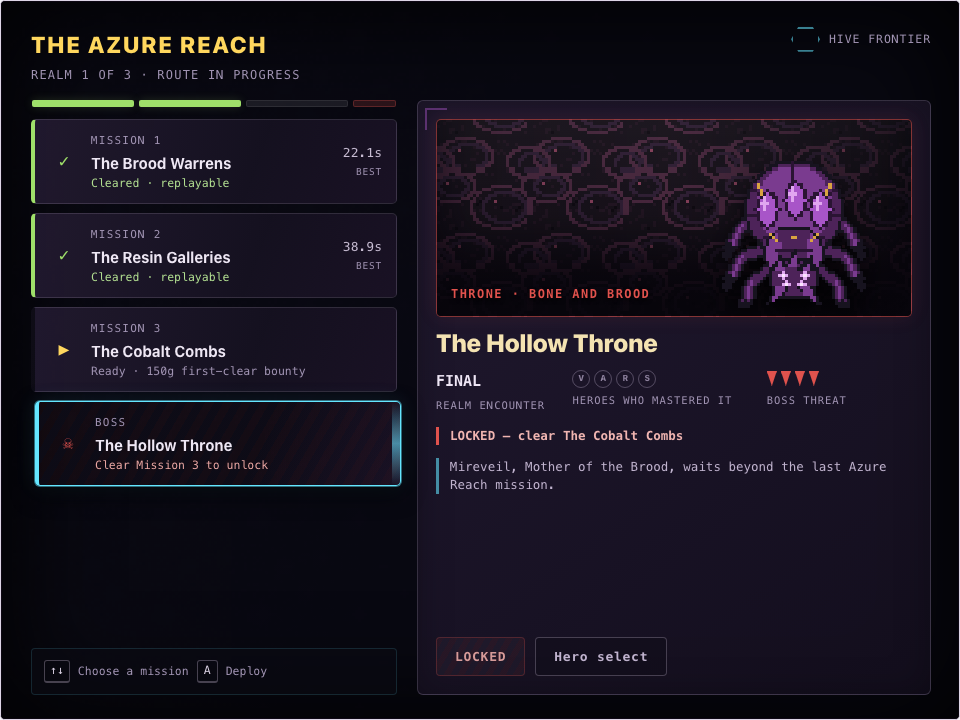
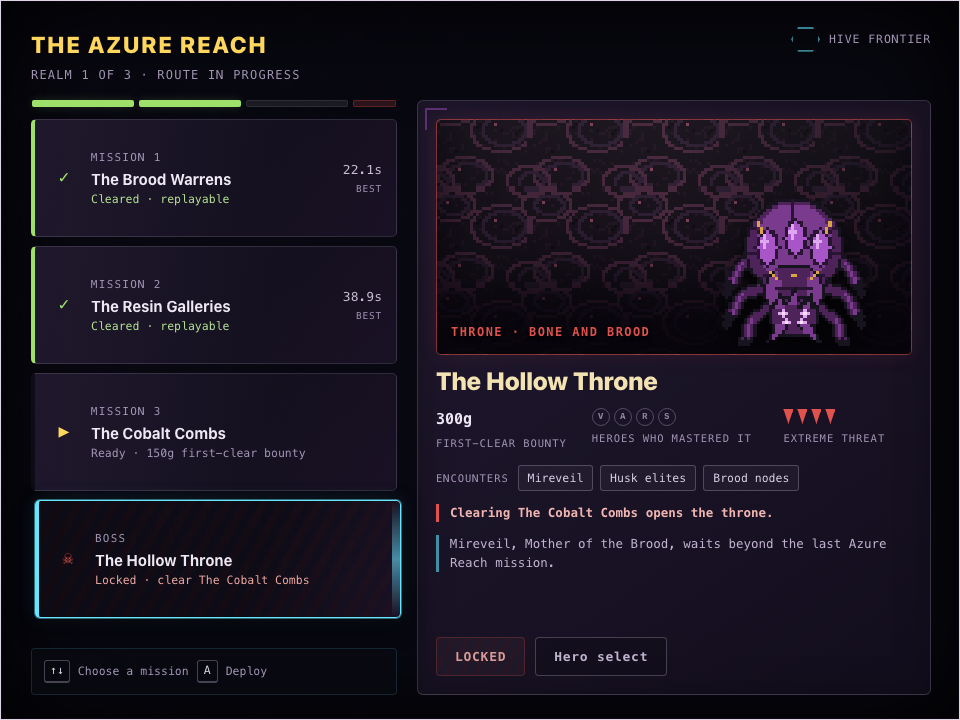
Fix input parity in the menu redesign prototype
The prototype existed to demonstrate one cursor driven by pointer, keyboard
and pad, and two paths broke exactly that.

Buying anything rebuilt the shop and fork markup, destroying the button that
held DOM focus. Key input is bound to the stage, so focus falling back to
<body> meant arrows and Enter stopped reaching it — keyboard and pad control
died for the rest of the session on the first purchase. Confirming a
specialization did the same, hiding the dialog while focus sat inside it.
Re-renders that follow a state change now hand the cursor back.

The confirmation was modal for the keyboard but not for the pad: A reached
the card underneath the dialog and nothing reached the dialog's own buttons.
The pad now sees the same modal the keyboard does, with the safe option
holding focus.

Also, against the acceptance details in #139:

- the number badges are honoured rather than decorative — 1-3 buy upgrades,
  4-5 open a specialization preview, and both move the cursor so the shortcut
  and the cursor never disagree
- the boss node stated "locked" five ways; the card now spends that room on
  first-clear bounty, an EXTREME threat rating that keeps the scale a scale,
  and the enemy families #139 asked for
- gold earned read 318 over a 250g bank, which ResultsScene cannot produce —
  it banks the run's gold on entry, before anything is spent
- rows and cards grew to absorb ~100px of dead column, and locked rows lost
[…]

diff --git a/docs/design/mockups/menu-redesign.html b/docs/design/mockups/menu-redesign.html
@@ -73,7 +73,7 @@
   .seg.on { border-color:rgba(159,224,106,.65); background:var(--green); box-shadow:0 0 10px rgba(159,224,106,.18); }
   .seg.boss { flex:0 0 43px; border-color:rgba(224,82,77,.28); background:rgba(224,82,77,.16); }
   .seg.boss.on { background:var(--red); }
-  .row { position:relative; display:grid; grid-template-columns:30px 1fr auto; gap:12px; align-items:center; width:100%; min-height:85px; padding:11px 14px; overflow:hidden; border:1px solid rgba(192,179,206,.18); border-left:4px solid transparent; border-radius:5px; background:linear-gradient(100deg,rgba(34,26,48,.92),rgba(14,12,23,.88)); color:inherit; cursor:pointer; font:inherit; text-align:left; }
+  .row { position:relative; display:grid; grid-template-columns:30px 1fr auto; gap:12px; align-items:center; width:100%; min-height:118px; padding:11px 14px; overflow:hidden; border:1px solid rgba(192,179,206,.18); border-left:4px solid transparent; border-radius:5px; background:linear-gradient(100deg,rgba(34,26,48,.92),rgba(14,12,23,.88)); color:inherit; cursor:pointer; font:inherit; text-align:left; }
   .row::after { content:""; position:absolute; inset:0; pointer-events:none; background:linear-gradient(110deg,transparent 60%,rgba(168,85,200,.08)); }
   .row:hover { border-color:rgba(100,230,255,.44); transform:translateX(2px); }
   .row[aria-current="true"] { z-index:1; border-color:var(--cyan); border-left-color:var(--cyan); box-shadow:0 0 0 1px rgba(100,230,255,.45),0 8px 22px rgba(0,0,0,.6),0 0 20px rgba(100,230,255,.12); transform:translateX(4px); }
@@ -97,13 +97,13 @@
 
   .detail { position:relative; display:flex; min-height:0; flex-direction:column; gap:13px; padding:18px; overflow:hidden; border:1px solid rgba(192,179,206,.2); border-radius:6px; background:linear-gradient(145deg,rgba(34,26,48,.97),rgba(19,14,29,.97)); box-shadow:inset 0 0 35px rgba(0,0,0,.28); }
   .detail::before,.fork::before { content:""; position:absolute; width:22px; height:22px; border-top:2px solid rgba(168,85,200,.45); border-left:2px solid rgba(168,85,200,.45); top:7px; left:7px; pointer-events:none; }
-  .biome { position:relative; height:198px; flex:0 0 198px; overflow:hidden; border:1px solid color-mix(in srgb,var(--line) 55%,transparent); border-radius:5px; background-color:var(--tint); background-image:linear-gradient(90deg,rgba(6,5,10,.2),rgba(6,5,10,.05) 50%,rgba(6,5,10,.55)),var(--texture); background-position:center; background-size:auto,96px 96px; box-shadow:inset 0 -60px 50px rgba(3,2,7,.72),0 0 20px color-mix(in srgb,var(--line) 10%,transparent); image-rendering:pixelated; }
+  .biome { position:relative; height:236px; flex:0 0 236px; overflow:hidden; border:1px solid color-mix(in srgb,var(--line) 55%,transparent); border-radius:5px; background-color:var(--tint); background-image:linear-gradient(90deg,rgba(6,5,10,.2),rgba(6,5,10,.05) 50%,rgba(6,5,10,.55)),var(--texture); background-position:center; background-size:auto,96px 96px; box-shadow:inset 0 -60px 50px rgba(3,2,7,.72),0 0 20px color-mix(in srgb,var(--line) 10%,transparent); image-rendering:pixelated; }
   .biome::after { content:""; position:absolute; inset:0; background:linear-gradient(180deg,rgba(255,255,255,.025),transparent 45%,rgba(7,5,11,.7)); }
   .biome img { position:absolute; z-index:1; right:34px; bottom:21px; width:108px; height:108px; object-fit:contain; filter:drop-shadow(0 14px 12px rgba(0,0,0,.78)); image-rendering:pixelated; transform:scale(1.15); }
   .biome img.boss-art { right:42px; bottom:8px; width:150px; height:150px; transform:none; }
   .biome-label { position:absolute; z-index:2; left:14px; bottom:12px; color:var(--line); font-size:12px; font-weight:700; letter-spacing:.12em; text-shadow:0 2px 4px #000; }
   .dname { color:var(--parch); font-family:var(--sans); font-size:25px; font-weight:850; letter-spacing:-.01em; line-height:1.05; }
-  .meta { display:grid; grid-template-columns:.85fr 1.25fr 1fr; gap:13px; }
+  .meta { display:grid; grid-template-columns:1fr 1.25fr .9fr; gap:13px; }
   .stat { display:flex; min-width:0; flex-direction:column; gap:4px; }
   .stat b { min-height:19px; color:#eee6f5; font-size:15px; font-weight:650; font-variant-numeric:tabular-nums; }
   .stat i { color:var(--dimg); font-size:10.5px; font-style:normal; letter-spacing:.09em; }
@@ -113,6 +113,9 @@
   .fang { width:10px; height:15px; border:1px solid rgba(192,179,206,.4); clip-path:polygon(0 0,100% 0,50% 100%); background:rgba(255,255,255,.03); }
   .fang.on { border-color:var(--amber); background:var(--amber); }
   .fang.danger.on { border-color:var(--red); background:var(--red); }
+  .roster { display:flex; flex-wrap:wrap; align-items:center; gap:7px; }
+  .roster i { margin-right:2px; color:var(--dimg); font-size:10.5px; font-style:normal; letter-spacing:.09em; }
+  .chip { padding:3px 9px; border:1px solid rgba(192,179,206,.3); border-radius:3px; background:rgba(255,255,255,.035); color:#d8cee4; font-size:11.5px; }
   .note { padding-left:11px; border-left:3px solid rgba(100,230,255,.58); color:var(--lilac); font-size:12.5px; line-height:1.45; }
   .note.bad { border-left-color:var(--red); color:#f0b5b1; font-weight:650; }
   .cta { display:flex; align-items:center; gap:10px; margin-top:auto; }
@@ -131,7 +134,7 @@
   .banner b { display:block; color:var(--green); font-family:var(--sans); font-size:34px; font-weight:900; letter-spacing:.075em; line-height:1.15; text-shadow:0 0 22px rgba(159,224,106,.18); }
   .banner i { color:var(--dimg); font-size:12px; font-style:normal; letter-spacing:.11em; }
   .tiles { display:grid; grid-template-columns:repeat(4,1fr); gap:10px; }
-  .tile { position:relative; display:grid; grid-template-columns:34px 1fr; grid-template-rows:auto auto; min-height:88px; padding:11px 12px; overflow:hidden; border:1px solid rgba(192,179,206,.2); border-radius:5px; background:linear-gradient(130deg,rgba(34,26,48,.9),rgba(15,12,23,.88)); }
+  .tile { position:relative; display:grid; grid-template-columns:34px 1fr; grid-template-rows:auto auto; min-height:100px; padding:11px 12px; overflow:hidden; border:1px solid rgba(192,179,206,.2); border-radius:5px; background:linear-gradient(130deg,rgba(34,26,48,.9),rgba(15,12,23,.88)); }
   .tile::after { content:""; position:absolute; right:-15px; bottom:-23px; width:70px; height:70px; border:1px solid rgba(168,85,200,.11); transform:rotate(45deg); }
   .tile .tile-icon { grid-row:1/3; align-self:center; color:var(--amber); font-family:var(--sans); font-size:23px; font-weight:900; text-align:center; text-shadow:0 0 12px rgba(255,215,94,.18); }
   .tile img.tile-icon { width:28px; height:28px; object-fit:contain; image-rendering:pixelated; }
@@ -146,7 +149,7 @@
   .bank { display:flex; align-items:center; gap:7px; padding:6px 12px; border:1px solid rgba(255,215,94,.45); border-radius:4px; background:rgba(255,215,94,.09); color:var(--amber); font-size:15px; font-variant-numeric:tabular-nums; }
   .bank img { width:16px; height:16px; image-rendering:pixelated; }
   .shop { display:grid; grid-template-columns:repeat(3,1fr); gap:10px; }
-  .card { position:relative; display:grid; grid-template-columns:34px 1fr; grid-template-rows:auto 1fr auto; gap:3px 9px; min-height:108px; padding:12px 13px; overflow:hidden; border:1px solid rgba(192,179,206,.2); border-radius:5px; background:linear-gradient(135deg,rgba(32,25,44,.95),rgba(14,12,22,.94)); color:inherit; cursor:pointer; font:inherit; text-align:left; }
+  .card { position:relative; display:grid; grid-template-columns:34px 1fr; grid-template-rows:auto 1fr auto; gap:3px 9px; min-height:136px; padding:12px 13px; overflow:hidden; border:1px solid rgba(192,179,206,.2); border-radius:5px; background:linear-gradient(135deg,rgba(32,25,44,.95),rgba(14,12,22,.94)); color:inherit; cursor:pointer; font:inherit; text-align:left; }
   .card::after { content:""; position:absolute; inset:0; pointer-events:none; background:linear-gradient(120deg,transparent 58%,rgba(168,85,200,.07)); }
   .card:hover { border-color:rgba(100,230,255,.48); }
   .card:focus-visible { outline:2px solid var(--cyan); outline-offset:2px; }
@@ -172,7 +175,7 @@
   .fork-h b { color:#efc1f8; font-size:12px; letter-spacing:.1em; }
   .fork-h i { color:var(--dimg); font-size:10.5px; font-style:normal; }
   .fork-r { display:grid; grid-template-columns:1fr 1fr; gap:10px; }
-  .fork .card { min-height:115px; grid-template-columns:1fr 92px; grid-template-rows:auto 1fr auto; }
+  .fork .card { min-height:150px; grid-template-columns:1fr 92px; grid-template-rows:auto 1fr auto; }
   .fork .card .cn,.fork .card .cd { grid-column:1; }
   .fork .card .cf { grid-column:1/3; }
   .ability-viz { position:relative; grid-column:2; grid-row:1/3; align-self:stretch; min-height:55px; border:1px solid rgba(168,85,200,.26); border-radius:4px; background:radial-gradient(circle at center,rgba(168,85,200,.14),rgba(8,7,13,.55)); overflow:hidden; }
@@ -243,7 +246,10 @@
             </div>
             <div class="rail-help"><span class="keycap">↑↓</span><span>Choose a mission</span><span class="keycap">A</span><span>Deploy</span></div>
           </div>
-          <div class="detail" id="detail" aria-live="polite"></div>
+          <!-- Not a live region: the panel is rebuilt on every cursor move, so
+               announcing it would re-read biome, stats and both buttons on each
+               arrow press. The row's own accessible name carries the summary. -->
+          <div class="detail" id="detail" role="group" aria-label="Selected mission detail"></div>
         </div>
         <div class="toast" id="hubToast" role="status"></div>
       </div>
@@ -270,7 +276,7 @@
         </div>
 
         <div class="tiles">
-          <div class="tile gold"><img class="tile-icon" src="../../../public/art/ui-icon-gold.png" alt=""><i>GOLD EARNED</i><b>318</b><small>includes +150 first clear</small></div>
+          <div class="tile gold"><img class="tile-icon" src="../../../public/art/ui-icon-gold.png" alt=""><i>GOLD EARNED</i><b>318</b><small>+150 first clear</small></div>
           <div class="tile"><img class="tile-icon" src="../../../public/art/ui-icon-kills.png" alt=""><i>ENEMIES FELLED</i><b>25</b></div>
           <div class="tile"><span class="tile-icon">◷</span><i>CLEAR TIME</i><b>37.0s</b><small>new realm record</small></div>
           <div class="tile"><span class="tile-icon">III</span><i>LEVEL 3 · 316 XP</i><b>62%</b><div class="xp" aria-label="62 percent to level 4"><div style="width:62%"></div></div></div>
@@ -278,7 +284,7 @@
 
         <div class="shoprow">
           <span class="lbl">SPEND YOUR SPOILS</span>
-          <span class="bank" id="bank"><img src="../../../public/art/ui-icon-gold.png" alt="">250g BANKED</span>
+          <span class="bank" id="bank"><img src="../../../public/art/ui-icon-gold.png" alt="">318g BANKED</span>
         </div>
         <div class="shop" id="shop"></div>
 
@@ -334,10 +340,10 @@
   var ART = '../../../public/art/';
   var HEROES = ['V','A','R','S'];
   var MISSIONS = [
-    { ord:'MISSION 1', name:'The Brood Warrens', state:'cleared', glyph:'✓', best:'22.1s', mastery:2, threat:1, threatLabel:'LOW', biome:'BROOD RESIN · TUNNELS', texture:ART+'tile-floor-0.png', subject:ART+'generator-brood-node-0.png', tint:'#211627', line:'#b07fe6', rowNote:'Cleared · replayable', note:'Skitterling swarms pour from brood nodes. Replays award gold, but the first-clear bounty is already claimed.' },
-    { ord:'MISSION 2', name:'The Resin Galleries', state:'cleared', glyph:'✓', best:'38.9s', mastery:1, threat:2, threatLabel:'GUARDED', biome:'AMBER RESIN · GALLERIES', texture:ART+'tile-amber-resin-floor-0.png', subject:ART+'generator-husk-mound-0.png', tint:'#2b2110', line:'#e0a24d', rowNote:'Cleared · replayable', note:'Husk mounds crowd narrow resin galleries. Bring control or enough toughness to hold the corridor.' },
-    { ord:'MISSION 3', name:'The Cobalt Combs', state:'available', glyph:'▶', best:null, mastery:0, threat:3, threatLabel:'DANGEROUS', biome:'COBALT COMB · CRYSTALLINE', texture:ART+'tile-cobalt-combs-floor-0.png', subject:ART+'generator-spitter-nest-0.png', tint:'#101d2a', line:'#64e6ff', rowNote:'Ready · 150g first-clear bounty', note:'Spitter nests and husk mounds create mixed-range pressure. The first clear awards a 150g bounty.' },
-    { ord:'BOSS', name:'The Hollow Throne', state:'locked', glyph:'☠', best:null, mastery:0, threat:4, threatLabel:'BOSS', biome:'THRONE · BONE AND BROOD', texture:ART+'tile-hollow-throne-floor-0.png', subject:ART+'boss-mireveil-0.png', subjectClass:'boss-art', tint:'#2a1214', line:'#e0524d', rowNote:'Clear Mission 3 to unlock', lock:'LOCKED — clear The Cobalt Combs', note:'Mireveil, Mother of the Brood, waits beyond the last Azure Reach mission.' }
+    { ord:'MISSION 1', name:'The Brood Warrens', state:'cleared', glyph:'✓', best:'22.1s', bounty:100, mastery:2, threat:1, threatLabel:'LOW', biome:'BROOD RESIN · TUNNELS', texture:ART+'tile-floor-0.png', subject:ART+'generator-brood-node-0.png', tint:'#211627', line:'#b07fe6', encounters:['Skitterlings','Brood nodes'], rowNote:'Cleared · replayable', note:'Skitterling swarms pour from brood nodes. Replays award gold, but the first-clear bounty is already claimed.' },
+    { ord:'MISSION 2', name:'The Resin Galleries', state:'cleared', glyph:'✓', best:'38.9s', bounty:125, mastery:1, threat:2, threatLabel:'GUARDED', biome:'AMBER RESIN · GALLERIES', texture:ART+'tile-amber-resin-floor-0.png', subject:ART+'generator-husk-mound-0.png', tint:'#2b2110', line:'#e0a24d', encounters:['Husks','Husk mounds'], rowNote:'Cleared · replayable', note:'Husk mounds crowd narrow resin galleries. Bring control or enough toughness to hold the corridor.' },
+    { ord:'MISSION 3', name:'The Cobalt Combs', state:'available', glyph:'▶', best:null, bounty:150, mastery:0, threat:3, threatLabel:'DANGEROUS', biome:'COBALT COMB · CRYSTALLINE', texture:ART+'tile-cobalt-combs-floor-0.png', subject:ART+'generator-spitter-nest-0.png', tint:'#101d2a', line:'#64e6ff', encounters:['Spitters','Husks','Spitter nests'], rowNote:'Ready · 150g first-clear bounty', note:'Spitter nests and husk mounds create mixed-range pressure. The first clear awards a 150g bounty.' },
+    { ord:'BOSS', name:'The Hollow Throne', state:'locked', glyph:'☠', best:null, bounty:300, mastery:0, threat:4, threatLabel:'EXTREME', biome:'THRONE · BONE AND BROOD', texture:ART+'tile-hollow-throne-floor-0.png', subject:ART+'boss-mireveil-0.png', subjectClass:'boss-art', tint:'#2a1214', line:'#e0524d', encounters:['Mireveil','Husk elites','Brood nodes'], rowNote:'Locked · clear The Cobalt Combs', lock:'Clearing The Cobalt Combs opens the throne.', note:'Mireveil, Mother of the Brood, waits beyond the last Azure Reach mission.' }
   ];
 
   var hubCursor = 2;
@@ -373,7 +379,10 @@
       b.className = 'row ' + m.state;
       b.dataset.hubIndex = String(i);
       b.setAttribute('aria-current',i === hubCursor ? 'true' : 'false');
-      if (m.state === 'locked') b.setAttribute('aria-disabled','true');
+      /* A locked row is still a real target — selecting it is how you read why
+         it is locked — so it is never aria-disabled. Its name carries the
+         prerequisite instead. */
+      b.setAttribute('aria-label',m.ord + ': ' + m.name + '. ' + m.rowNote + (m.best ? '. Best ' + m.best : ''));
       b.innerHTML = '<span class="g" aria-hidden="true">' + m.glyph + '</span>' +
         '<span class="rowcopy"><span class="o">' + m.ord + '</span><span class="n">' + m.name + '</span><span class="rs">' + m.rowNote + '</span></span>' +
         (m.best ? '<span class="t">' + m.best + '<small>best</small></span>' : '<span></span>');
@@ -387,7 +396,7 @@
   function renderDetail() {
     var m = MISSIONS[hubCursor];
     var locked = m.state === 'locked';
-    var firstStat = m.best ? '<b>' + m.best + '</b><i>PERSONAL BEST</i>' : locked ? '<b>FINAL</b><i>REALM ENCOUNTER</i>' : '<b>150g</b><i>FIRST-CLEAR BOUNTY</i>';
+    var firstStat = m.best ? '<b>' + m.best + '</b><i>PERSONAL BEST</i>' : '<b>' + m.bounty + 'g</b><i>FIRST-CLEAR BOUNTY</i>';
     detail.innerHTML =
       '<div class="biome" style="--texture:url(\'' + m.texture + '\');--tint:' + m.tint + ';--line:' + m.line + '">' +
         '<img class="' + (m.subjectClass || '') + '" src="' + m.subject + '" alt=""><span class="biome-label">' + m.biome + '</span></div>' +
@@ -395,6 +404,7 @@
       '<div class="meta"><div class="stat">' + firstStat + '</div>' +
         '<div class="stat"><b>' + heroMarks(m.mastery) + '</b><i>HEROES WHO MASTERED IT</i></div>' +
         '<div class="stat"><b>' + threatMarks(m.threat,locked) + '</b><i>' + m.threatLabel + ' THREAT</i></div></div>' +
+      '<div class="roster"><i>ENCOUNTERS</i>' + m.encounters.map(function (e) { return '<span class="chip">' + e + '</span>'; }).join('') + '</div>' +
       (locked ? '<div class="note bad">' + m.lock + '</div>' : '') +
       '<div class="note">' + m.note + '</div>' +
       '<div class="cta"><button class="btn ' + (locked ? 'dead' : 'primary') + '" type="button" data-map-action="deploy"' + (locked ? ' aria-disabled="true"' : '') + '>' + (locked ? 'LOCKED' : m.state === 'cleared' ? 'REPLAY · ENTER' : 'DEPLOY · ENTER') + '</button><button class="btn ghost" type="button" data-map-action="heroes">Hero select</button></div>';
@@ -431,11 +441,14 @@
   });
 
   /* Results */
-  var bank = 250;
+  /* ResultsScene banks the run's gold on scene entry, before anything can be
+     spent, so the opening bank is never below the gold this run earned. */
+  var STARTING_BANK = 318;
+  var bank = STARTING_BANK;
   var UPGRADES = [
     { key:'1', icon:'♥', name:'Hearthstone Vigor', desc:'+20 maximum health each rank', cost:80, rank:0, max:5 },
     { key:'2', icon:'✦', name:'Sharpened Edge', desc:'+4 basic-attack damage each rank', cost:100, rank:0, max:5 },
-    { key:'3', icon:'⇥', name:"Warden’s Reach", desc:'Tier 2 weapon · longer strike reach', cost:90, rank:1, max:3 }
+    { key:'3', icon:'⇥', name:"Warden’s Reach", desc:'Tier 2 weapon · longer reach', cost:90, rank:1, max:3 }
   ];
   var FORK = [
     { name:'Faultline Drive', desc:'Drive a long fracture through enemies in front of you.', detail:'Replaces the circular Sunder Slam with a focused 230×64 line attack.', cost:180, viz:'line' },
@@ -489,7 +502,7 @@
         selectResult(0,i,false);
         if (maxed) showToast(resultToast,u.name + ' is already maxed');
         else if (cant) showToast(resultToast,'Need ' + (u.cost-bank) + 'g more');
-        else { bank -= u.cost; u.rank++; showToast(resultToast,u.name + ' upgraded'); renderResults(); }
+        else { bank -= u.cost; u.rank++; showToast(resultToast,u.name + ' upgraded'); renderResults(true); }
       });
       shopEl.appendChild(b);
     });
@@ -506,7 +519,7 @@
       b.className = 'card' + (isChosen ? ' done' : '') + ((isLocked || cant) ? ' cant' : '');
       if (isChosen || isLocked || cant) b.setAttribute('aria-disabled','true');
       var badge = isChosen ? '<span class="cost done">CHOSEN</span>' : isLocked ? '<span class="cost cant">BRANCH CLOSED</span>' : cant ? '<span class="cost cant">SHORT ' + (f.cost-bank) + 'g</span>' : '<span class="cost">PREVIEW · ' + f.cost + 'g</span>';
-      b.innerHTML = '<span class="cn">' + f.name + '</span><span class="cd">' + f.desc + '</span><span class="ability-viz ' + f.viz + '" aria-hidden="true"><span class="hero-dot"></span></span><span class="cf"><span></span>' + badge + '</span>';
+      b.innerHTML = '<span class="kbd">' + (i + 4) + '</span><span class="cn">' + f.name + '</span><span class="cd">' + f.desc + '</span><span class="ability-viz ' + f.viz + '" aria-hidden="true"><span class="hero-dot"></span></span><span class="cf"><span></span>' + badge + '</span>';
       bindResultTarget(b,1,i);
       b.addEventListener('click',function () {
         selectResult(1,i,false);
@@ -527,8 +540,12 @@
     });
   }
 
-  function renderResults() {
-    renderShop(); renderFork(); syncResultSelection(false);
+  /* Every mutation rebuilds the shop and fork markup, which destroys the button
+     holding DOM focus. Because the key handler is bound to #resultsStage, focus
+     falling back to <body> silently kills arrow and Enter input for the rest of
+     the session — so a re-render that follows a state change must reclaim it. */
+  function renderResults(keepFocus) {
+    renderShop(); renderFork(); syncResultSelection(keepFocus === true);
   }
 
   function selectResult(row,col,focus) {
@@ -571,11 +588,28 @@
 
   function chooseSpecialization(i) {
     if (chosen < 0 && bank >= FORK[i].cost) { bank -= FORK[i].cost; chosen = i; }
-    pending = -1; confirm.hidden = true; renderResults();
+    /* Hiding the dialog while focus still sits inside it strands focus on a
+       display:none element, so hand the cursor back to the fork card first. */
+    pending = -1; confirm.hidden = true; renderResults(true);
+  }
+
+  function cancelConfirm() { pending = -1; confirm.hidden = true; syncResultSelection(true); }
+
+  /* The dialog is a two-button choice; left/right swap between them and the
+     safe option keeps focus on open. */
+  function moveConfirmFocus() {
+    var yes = document.getElementById('confirmYes');
+    (document.activeElement === yes ? document.getElementById('confirmNo') : yes).focus();
+  }
+
+  function activateConfirm() {
+    var yes = document.getElementById('confirmYes');
+    var no = document.getElementById('confirmNo');
+    (document.activeElement === yes ? yes : no).click();
   }
 
   document.getElementById('confirmYes').addEventListener('click',function () { if (pending >= 0) chooseSpecialization(pending); });
-  document.getElementById('confirmNo').addEventListener('click',function () { pending = -1; confirm.hidden = true; syncResultSelection(true); });
+  document.getElementById('confirmNo').addEventListener('click',cancelConfirm);
 
   renderResults();
   renderNav();
@@ -586,13 +620,19 @@
     if (!confirm.hidden) return;
     if (/^Arrow(Up|Down|Left|Right)$/.test(event.key)) { event.preventDefault(); moveResult(event.key); }
     else if (event.key === 'Enter' || event.key === ' ') { event.preventDefault(); activateResult(); }
+    /* The number badges are a promise: 1-3 buy upgrades, 4-5 open a
+       specialization preview. They move the cursor too, so the shortcut and the
+       cursor never disagree about what is selected. */
+    else if (/^[1-5]$/.test(event.key)) {
+      event.preventDefault();
+      var n = Number(event.key) - 1;
+      selectResult(n < 3 ? 0 : 1,n < 3 ? n : n - 3,true);
+      activateResult();
+    }
   });
   confirm.addEventListener('keydown',function (event) {
-    if (event.key === 'Escape') { event.preventDefault(); document.getElementById('confirmNo').click(); }
-    if (event.key === 'ArrowLeft' || event.key === 'ArrowRight') {
-      event.preventDefault();
-      (document.activeElement === document.getElementById('confirmYes') ? document.getElementById('confirmNo') : document.getElementById('confirmYes')).focus();
-    }
+    if (event.key === 'Escape') { event.preventDefault(); cancelConfirm(); }
+    else if (event.key === 'ArrowLeft' || event.key === 'ArrowRight') { event.preventDefault(); moveConfirmFocus(); }
   });
 
   document.getElementById('hubScreen').addEventListener('pointerenter',function () { activeScreen = 'hub'; });
@@ -605,14 +645,24 @@
     if (pad) {
       var pressed = pad.buttons.map(function (b) { return b.pressed; });
       var map = [{i:12,key:'ArrowUp'},{i:13,key:'ArrowDown'},{i:14,key:'ArrowLeft'},{i:15,key:'ArrowRight'}];
+      /* The dialog is modal for the pad exactly as it is for the keyboard: while
+         it is open the D-pad swaps between its two buttons and A activates the
+         focused one, rather than reaching the card underneath. */
+      var modal = !confirm.hidden;
       map.forEach(function (entry) {
-        if (pressed[entry.i] && !previousPad[entry.i]) {
-          if (activeScreen === 'hub' && (entry.key === 'ArrowUp' || entry.key === 'ArrowDown')) selectHub((hubCursor + (entry.key === 'ArrowDown' ? 1 : -1) + MISSIONS.length) % MISSIONS.length,true);
-          else if (activeScreen === 'results') moveResult(entry.key);
-        }
+        if (!pressed[entry.i] || previousPad[entry.i]) return;
+        if (modal) {
+          if (entry.key === 'ArrowLeft' || entry.key === 'ArrowRight') moveConfirmFocus();
+        } else if (activeScreen === 'hub') {
+          if (entry.key === 'ArrowUp' || entry.key === 'ArrowDown') selectHub((hubCursor + (entry.key === 'ArrowDown' ? 1 : -1) + MISSIONS.length) % MISSIONS.length,true);
+        } else moveResult(entry.key);
       });
-      if (pressed[0] && !previousPad[0]) activeScreen === 'hub' ? confirmHub() : activateResult();
-      if (pressed[1] && !previousPad[1] && !confirm.hidden) document.getElementById('confirmNo').click();
+      if (pressed[0] && !previousPad[0]) {
+        if (modal) activateConfirm();
+        else if (activeScreen === 'hub') confirmHub();
+        else activateResult();
+      }
+      if (pressed[1] && !previousPad[1] && modal) cancelConfirm();
       previousPad = pressed;
     } else previousPad = [];
     window.requestAnimationFrame(pollPad);
@@ -623,7 +673,7 @@
     selectHub:function (i) { selectHub(i,false); },
     openFork:function (i) { requestSpecialization(i); },
     chooseFork:function (i) { chooseSpecialization(i); },
-    resetResults:function () { bank=250; chosen=-1; pending=-1; UPGRADES[0].rank=0; UPGRADES[1].rank=0; UPGRADES[2].rank=1; confirm.hidden=true; resultCursor={row:0,col:0}; renderResults(); }
+    resetResults:function () { bank=STARTING_BANK; chosen=-1; pending=-1; UPGRADES[0].rank=0; UPGRADES[1].rank=0; UPGRADES[2].rank=1; confirm.hidden=true; resultCursor={row:0,col:0}; renderResults(); }
   };
 })();
 </script>

diff --git a/docs/design/mockups/README.md b/docs/design/mockups/README.md
@@ -10,12 +10,26 @@ paragraph.
 - `proposed-*.png` — the proposed layouts at the same resolution, so the two are
   directly comparable.
 - `menu-redesign.html` — the live prototype the proposed shots were taken from.
-  Open it in a browser: pointer hover, arrow keys, Enter, and the Gamepad API all
-  drive the same cursor across mission rows, shop cards, specialization choices,
-  and exit actions. Affordability states and the specialization confirmation can
-  therefore be driven rather than described.
+  Open it in a browser: pointer hover, arrow keys, Enter, number keys `1`–`5`,
+  and the Gamepad API all drive the same cursor across mission rows, shop cards,
+  specialization choices, and exit actions. Affordability states and the
+  specialization confirmation can therefore be driven rather than described.
+
+Two rules the prototype is meant to demonstrate, and which broke once already:
+
+- **A re-render must hand the cursor back.** Buying anything rebuilds the shop
+  and fork markup, destroying the focused button. Because key input is bound to
+  the stage, letting focus fall to `<body>` silently kills keyboard and pad
+  control for the rest of the session, so every state change re-renders with
+  `renderResults(true)`.
+- **The confirmation is modal for every input.** Keyboard, pointer and pad all
+  reach the dialog's two buttons and nothing underneath it, and the safe option
+  holds focus when it opens.
 
 The prototype uses the game's own palette (`src/game/scenes/MissionHubScene.ts`
 `COLOR`, plus the scene text colours), copy, realm tiles, encounter sprites, and
 HUD icons. It is still plain HTML — a drawing of the screens, not a second
 implementation of them.
+
+The `proposed-*.png` stills are captures of this file at the native 960×720. If
+you change the prototype, recapture them, or the two stop agreeing.
